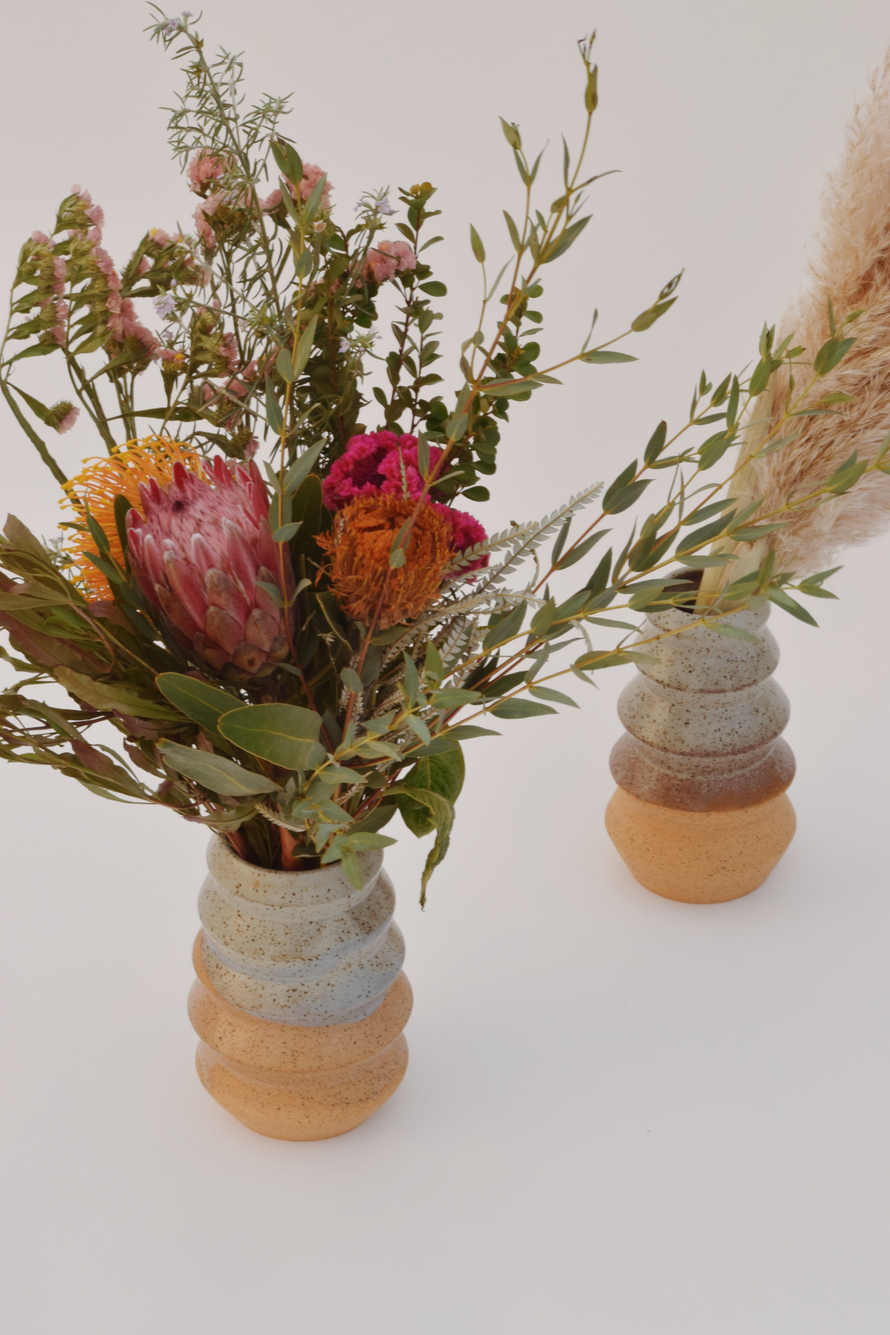
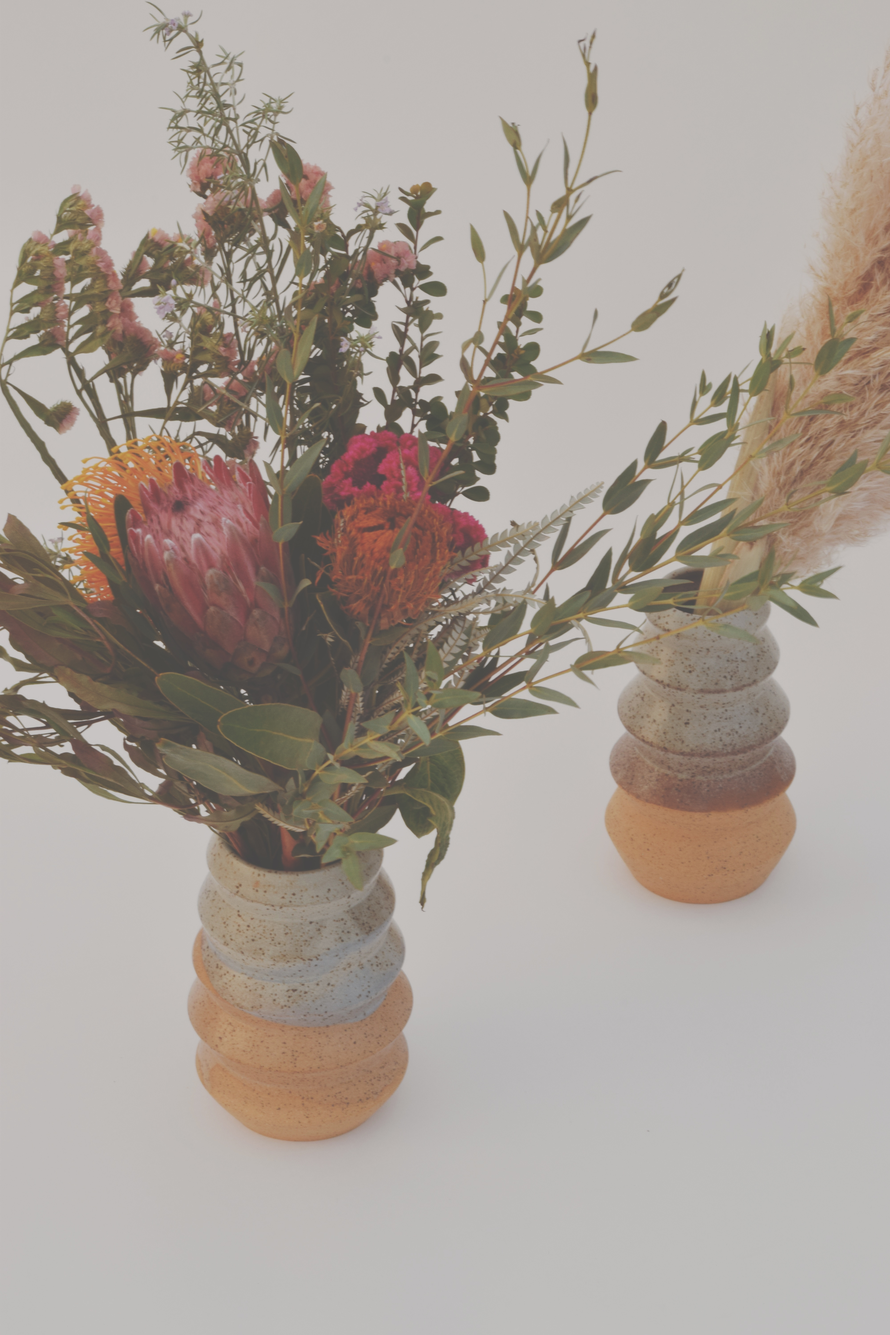
Update theme and home page

diff --git a/gatsby-config.js b/gatsby-config.js
@@ -59,8 +59,8 @@ module.exports = {
         name: `wynne-the-pooh`,
         short_name: `starter`,
         start_url: `/`,
-        background_color: `#663399`,
-        theme_color: `#663399`,
+        background_color: `#CC8E20`,
+        theme_color: `#CC8E20`,
         display: `minimal-ui`,
         icon: `src/images/wynnethepooh-icon.png`, // This path is relative to the root of the site.
       },
@@ -73,7 +73,7 @@ module.exports = {
         short_name: `wynne the pooh`,
         start_url: `/`,
         background_color: `#ffffff`,
-        theme_color: `#663399`,
+        theme_color: `#CC8E20`,
         display: `minimal-ui`,
         icon: `src/images/wynnethepooh-icon.png`,
       },

diff --git a/src/styles/GlobalStyles.js b/src/styles/GlobalStyles.js
@@ -110,8 +110,8 @@ const GlobalStyles = createGlobalStyle`
     height: 100vh;
     background:
       linear-gradient(
-        rgba(59, 41, 8, 0.6),
-        rgba(59, 41, 8, 0.6)
+        rgba(115, 75, 1, 0.6),
+        rgba(115, 75, 1, 0.6)
       ),
       url(${BackgroundImg});
     background-repeat: no-repeat;
